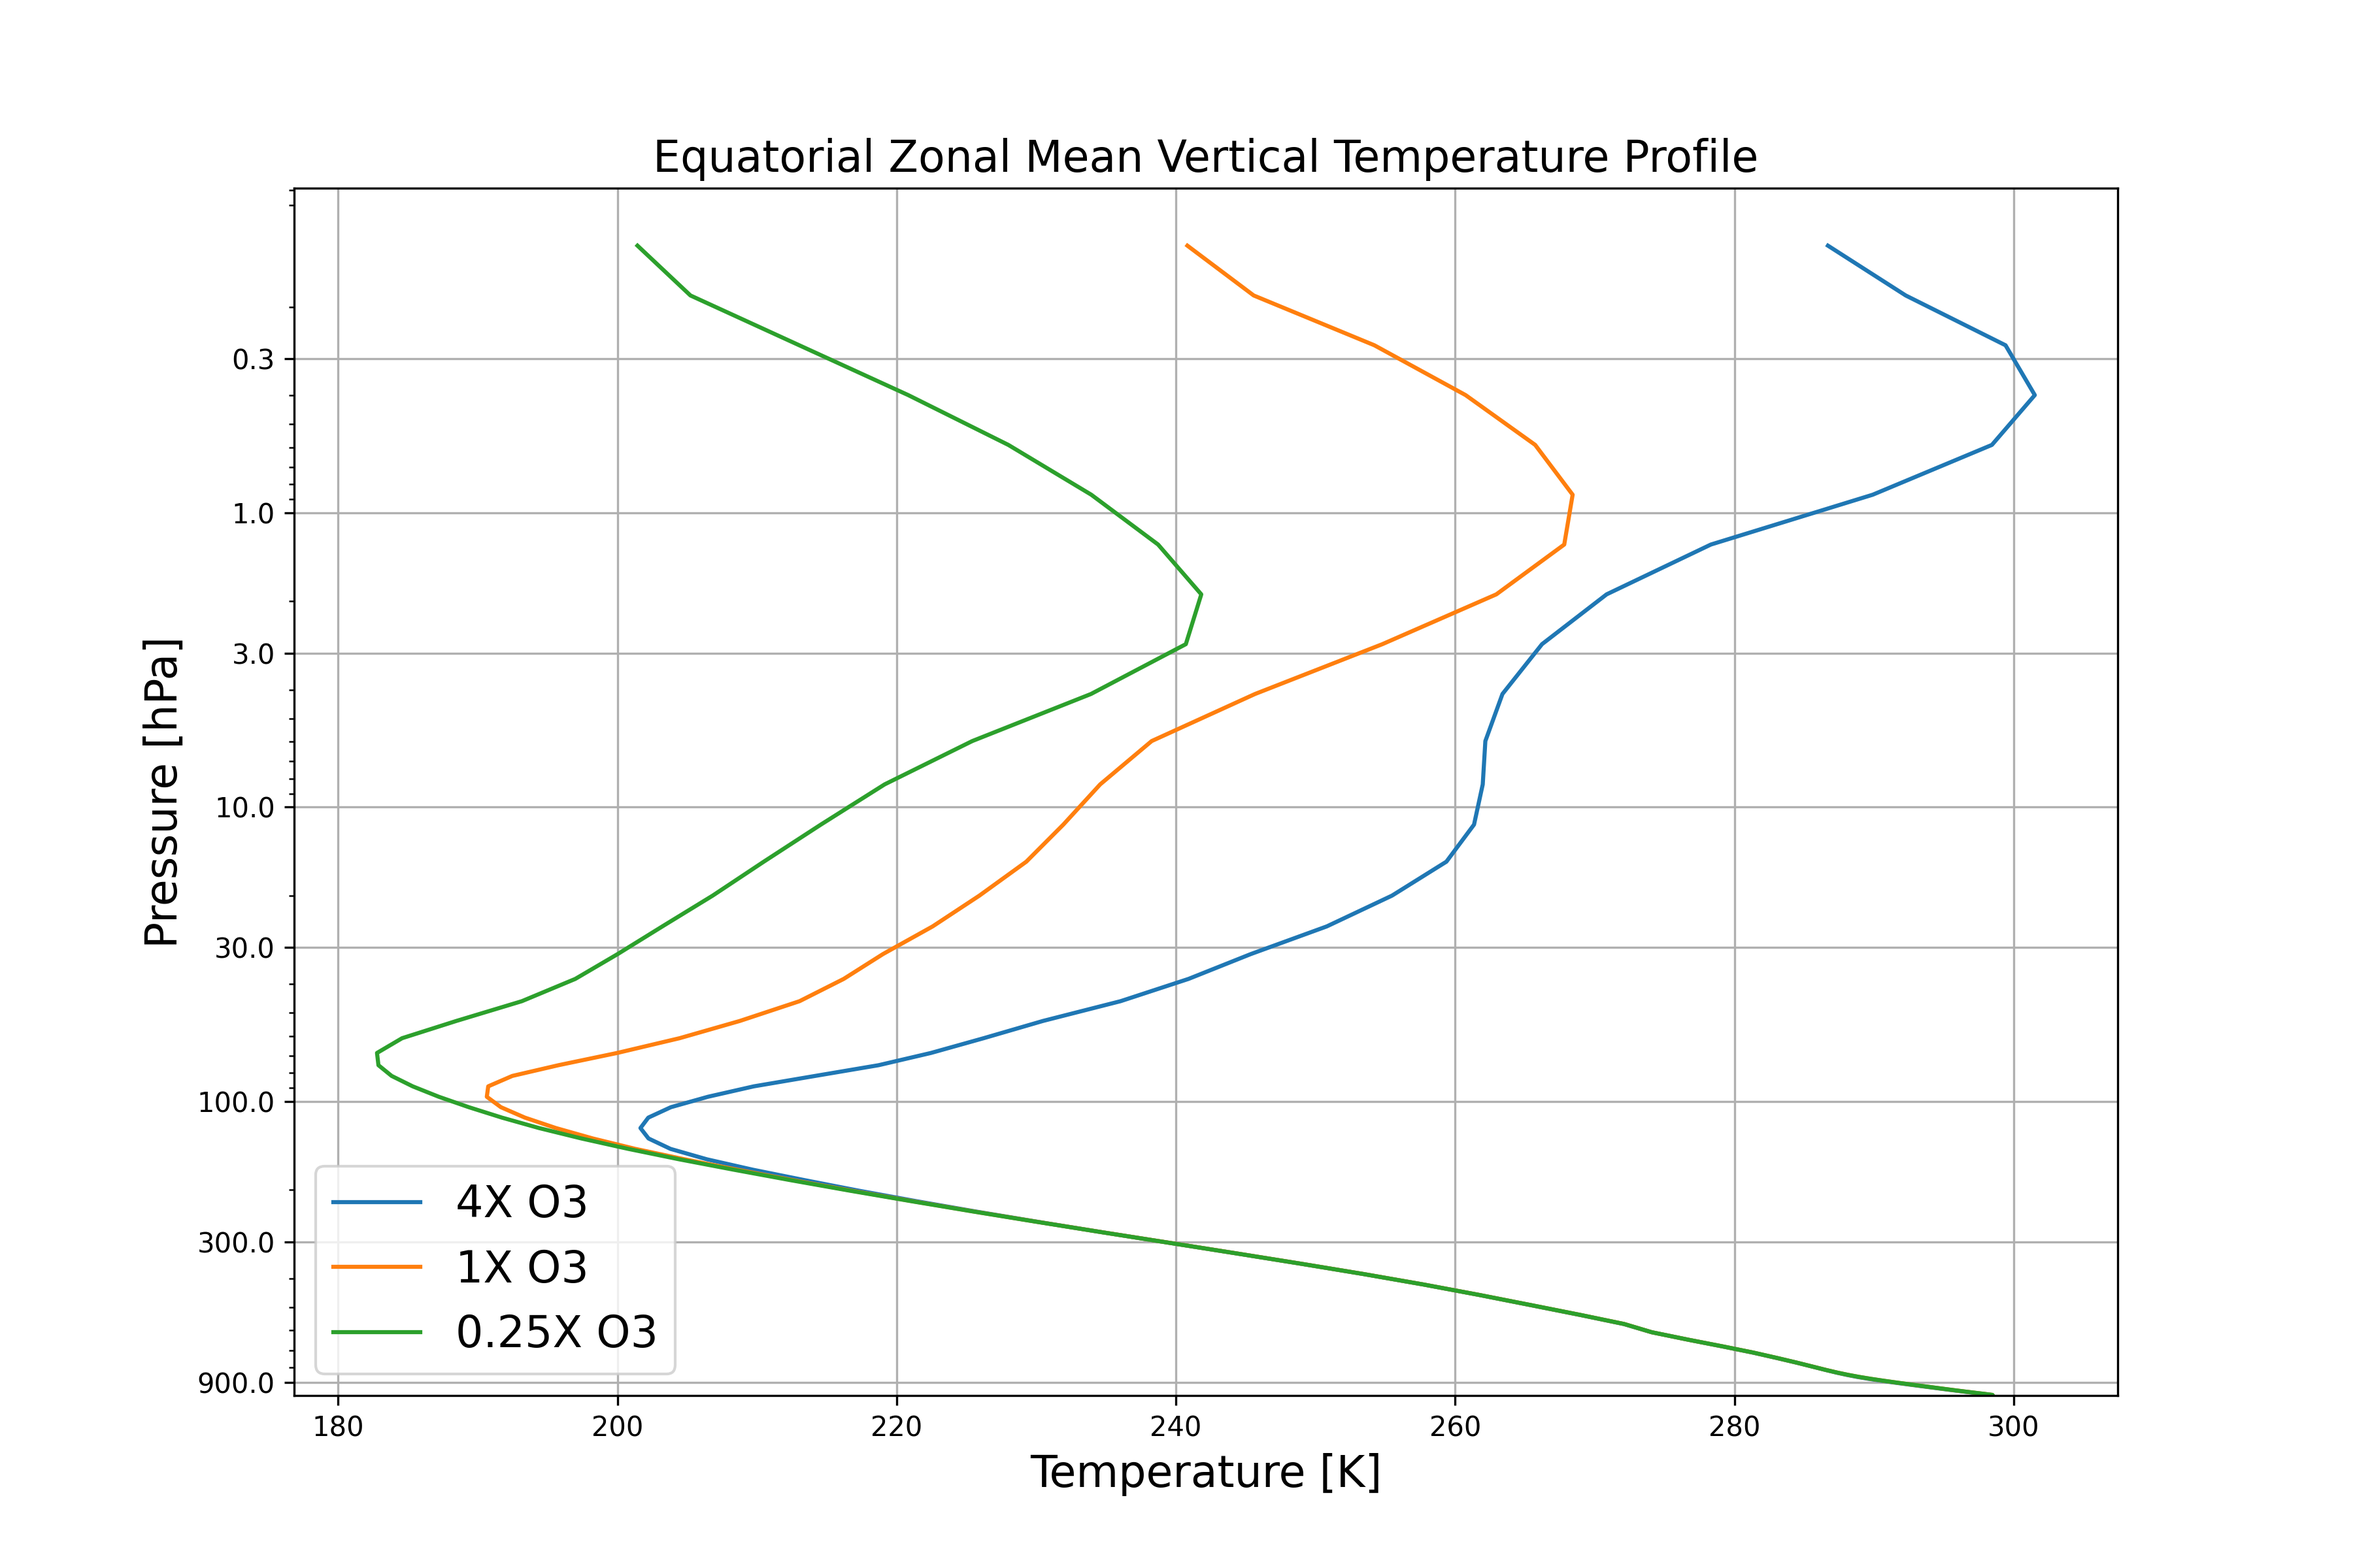
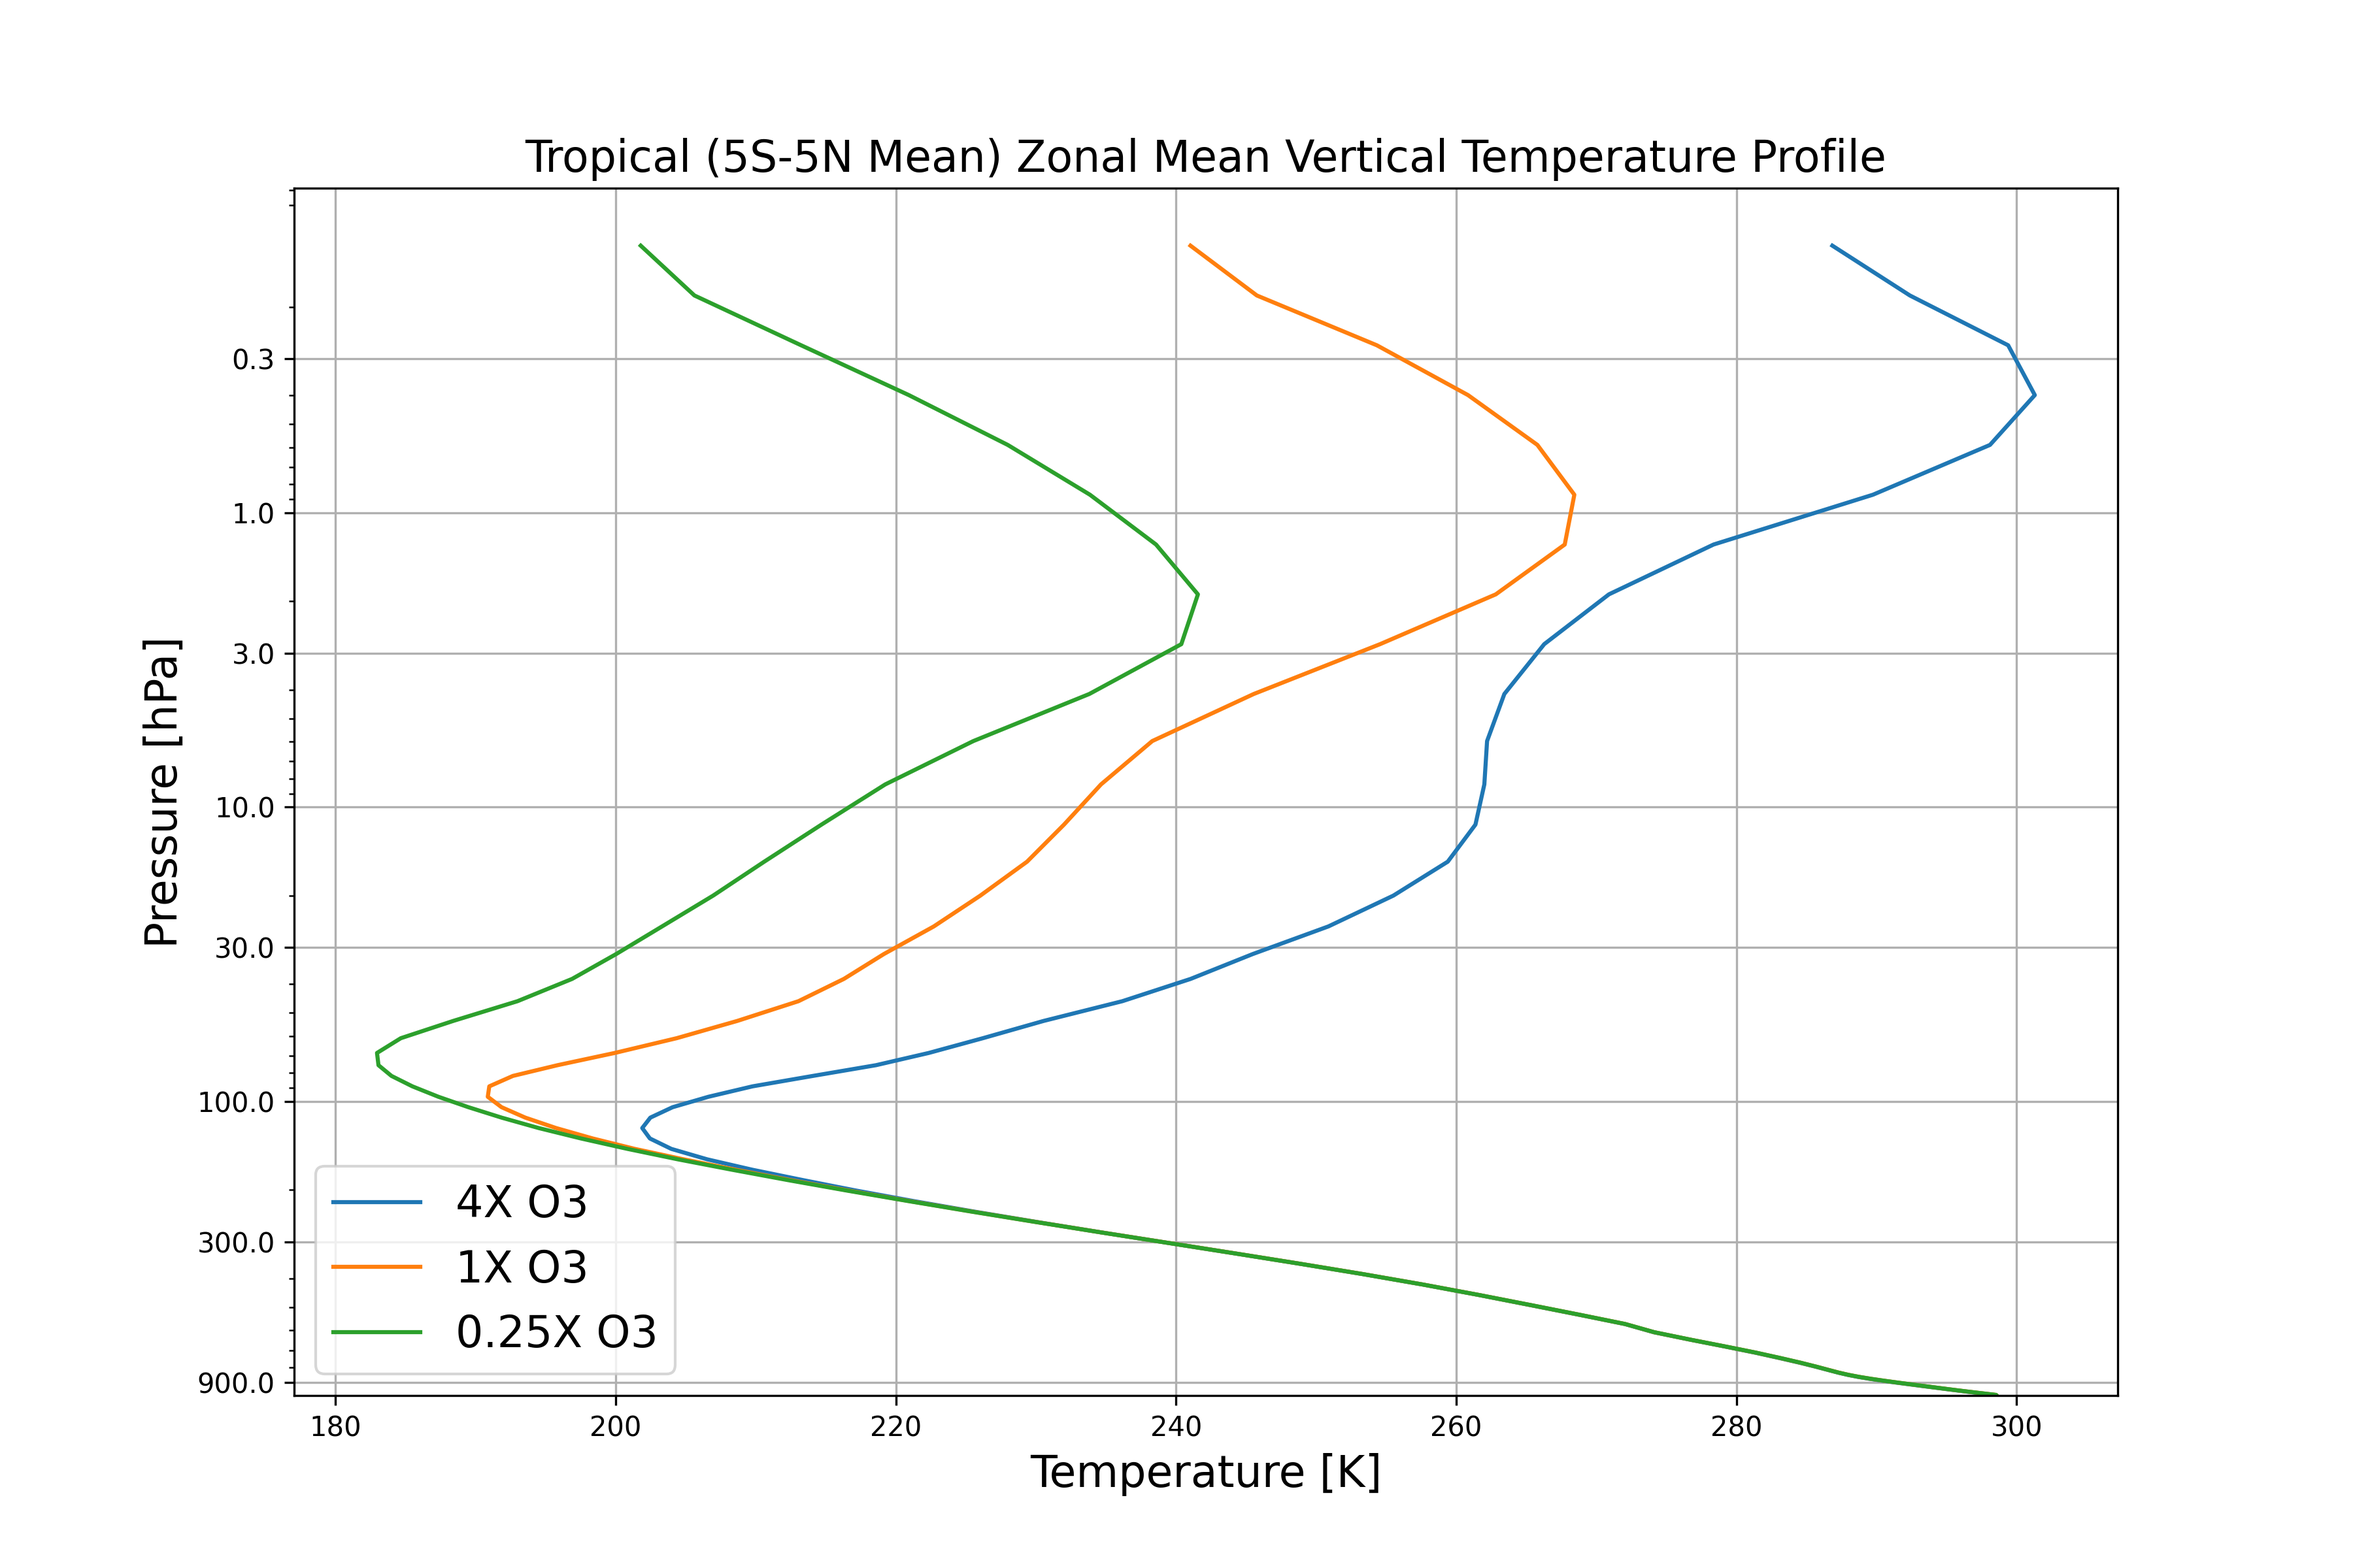
updated characteristic T profiles

diff --git a/_projects/1_project.md b/_projects/1_project.md
@@ -24,17 +24,17 @@ See the full details in the user_namelist file at the bottom of the page
 * 10 year long run with monthly mean output
 * Gravity waves by orography are disabled
 
-
-
 <div class="row">
     <div class="col-sm mt-3 mt-md-0">
-        {% include figure.liquid loading="eager" path="assets/img/Equatorial_Tprofile_O3comparison.png" title="Equatorial vertical temperature profiles for 0.25X, 1X, and 4X ozone concentrations." class="img-fluid rounded z-depth-1" %}
+        {% include figure.liquid loading="eager" path="assets/img/Equatorial_Tprofile_O3comparison.png" title="Equatorial T Profile" class="img-fluid rounded z-depth-1" %}
     </div>
     <div class="col-sm mt-3 mt-md-0">
-        {% include figure.liquid loading="eager" path="assets/img/Polar_Tprofile_O3comparison.png" title="Polar vertical temperature profiles for 0.25X, 1X, and 4X ozone concentrations." class="img-fluid rounded z-depth-1" %}
-    </div>" class="img-fluid rounded z-depth-1" %}
+        {% include figure.liquid loading="eager" path="assets/img/MidLat_Tprofile_O3comparison.png" title="MidLatitude T Profile" class="img-fluid rounded z-depth-1" %}
+    </div>
+    <div class="col-sm mt-3 mt-md-0">
+        {% include figure.liquid loading="eager" path="assets/img/Polar_Tprofile_O3comparison.png" title="Polar T Profile" class="img-fluid rounded z-depth-1" %}
     </div>
 </div>
 <div class="caption">
-    Vertical temperature profiles for 0.25X, 1X, and 4X ozone concentrations at the equator and at the poles.
+    Characteristic temperature profiles for 0.25X, 1X, and 4X ozone concentrations at the equator and at the poles. Each profile is a 5 year zonal average additionally meridionally averaged over 10 degrees of latitude to produce a profile characteristic of the region.
 </div>
